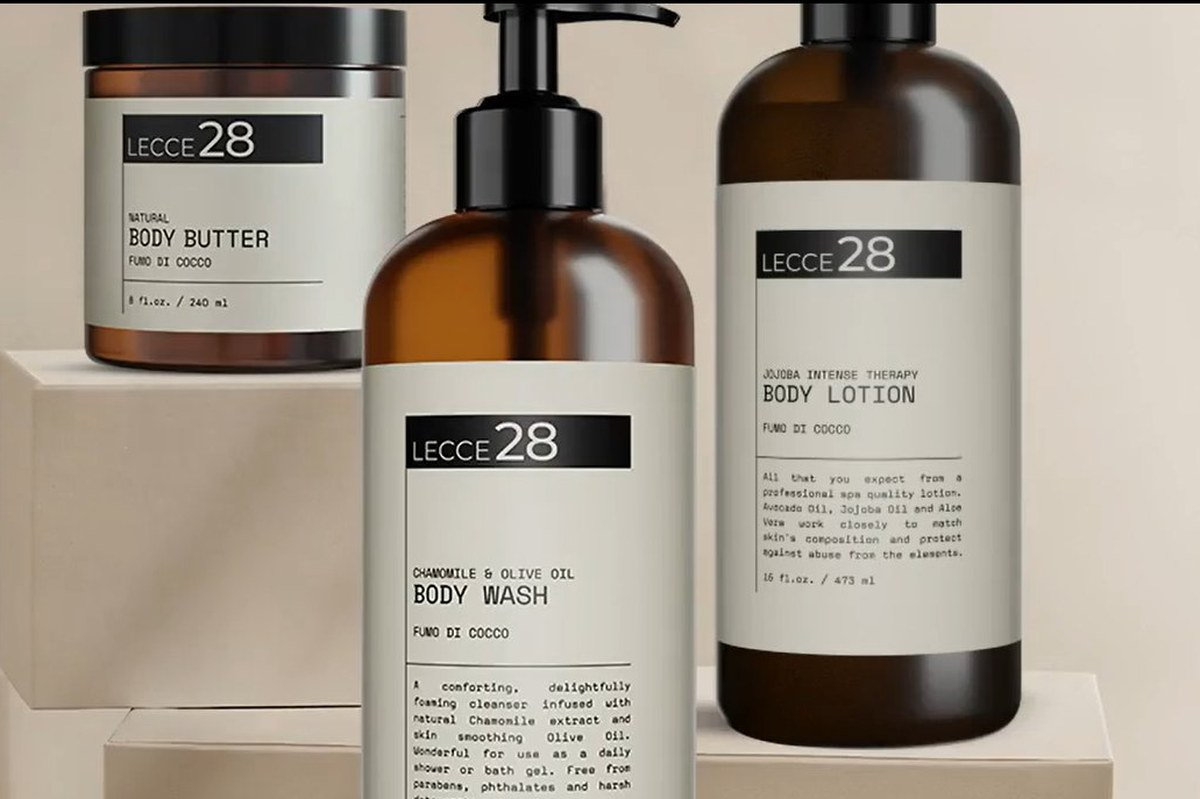
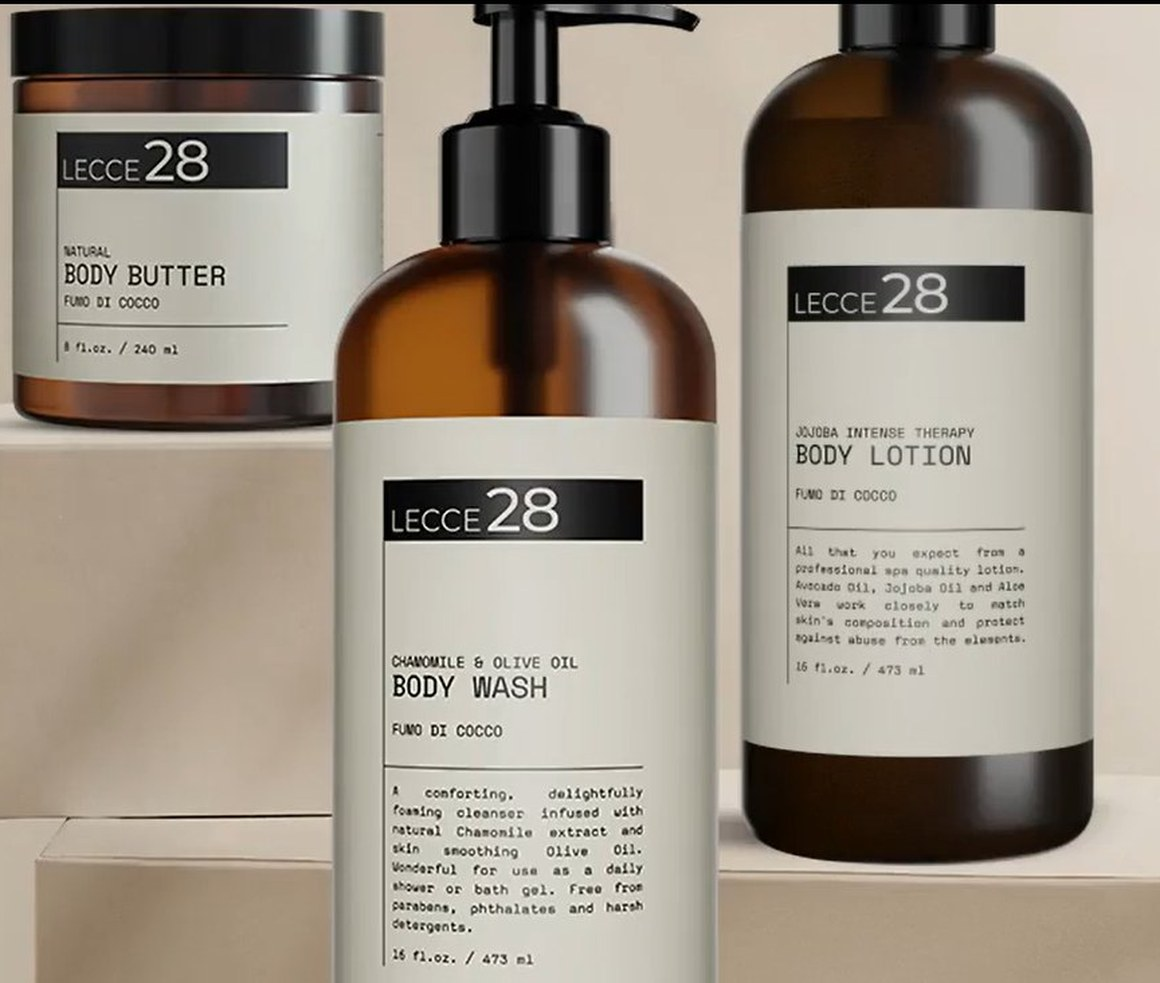
Centre the phone hero crops on the products
Slide one was cropped so the jar sat flush against the right edge. Both
slides now use windows centred on the product, with the section height
derived from the crop ratio so nothing is trimmed at the sides.

diff --git a/src/components/organic/OrganicHero.tsx b/src/components/organic/OrganicHero.tsx
@@ -34,7 +34,7 @@ export default function OrganicHero() {
         onMouseLeave={() => (paused.current = false)}
         onFocus={() => (paused.current = true)}
         onBlur={() => (paused.current = false)}
-        className="relative h-[420px] w-full overflow-hidden bg-[var(--oc-sand)] sm:h-[480px] lg:aspect-[2361/1001] lg:h-auto"
+        className="relative h-[min(calc(100vw/1.08+160px),620px)] w-full overflow-hidden bg-[var(--oc-sand)] lg:aspect-[2361/1001] lg:h-auto"
       >
         {/* only needed where the nav floats over the artwork */}
         <div className="pointer-events-none absolute inset-x-0 top-0 z-10 hidden h-28 bg-gradient-to-b from-white/70 to-transparent lg:block" />
@@ -88,7 +88,7 @@ function EditorialSlide() {
           the copy on its own ground underneath — overlaying it would either
           cover the label or sit on the jar's dark glass */}
       <div className="flex h-full flex-col lg:hidden">
-        <div className="relative h-[62%] overflow-hidden">
+        <div className="relative flex-1 overflow-hidden">
           <Image
             src="/hero/banner1-phone2.jpg"
             alt=""
@@ -98,7 +98,7 @@ function EditorialSlide() {
             className="object-cover object-center"
           />
         </div>
-        <div className="flex flex-1 flex-col items-center justify-center bg-white px-5 pb-7 text-center">
+        <div className="flex h-[160px] shrink-0 flex-col items-center justify-center bg-white px-5 pb-7 text-center">
           <p className="font-mono text-[13.5px] leading-snug tracking-[0.02em] text-black">
             Free Shipping For Purchases Over $100
           </p>
@@ -147,7 +147,7 @@ function TrifectaSlide() {
           ground beneath. The desktop artwork carries its copy baked in, so the
           crop takes only the product half. */}
       <div className="flex h-full flex-col lg:hidden">
-        <div className="relative h-[62%] overflow-hidden">
+        <div className="relative flex-1 overflow-hidden">
           <Image
             src="/hero/h2-phone4.jpg"
             alt=""
@@ -156,7 +156,7 @@ function TrifectaSlide() {
             className="object-cover object-center"
           />
         </div>
-        <div className="flex flex-1 flex-col justify-center bg-[#efe7dc] px-5 pb-7">
+        <div className="flex h-[190px] shrink-0 flex-col justify-center bg-[#efe7dc] px-5 pb-7">
           <h2 className="text-[19px] leading-[1.15] font-light text-black">
             WHERE LUXURY &amp; SELF-CARE COLLIDE
           </h2>
